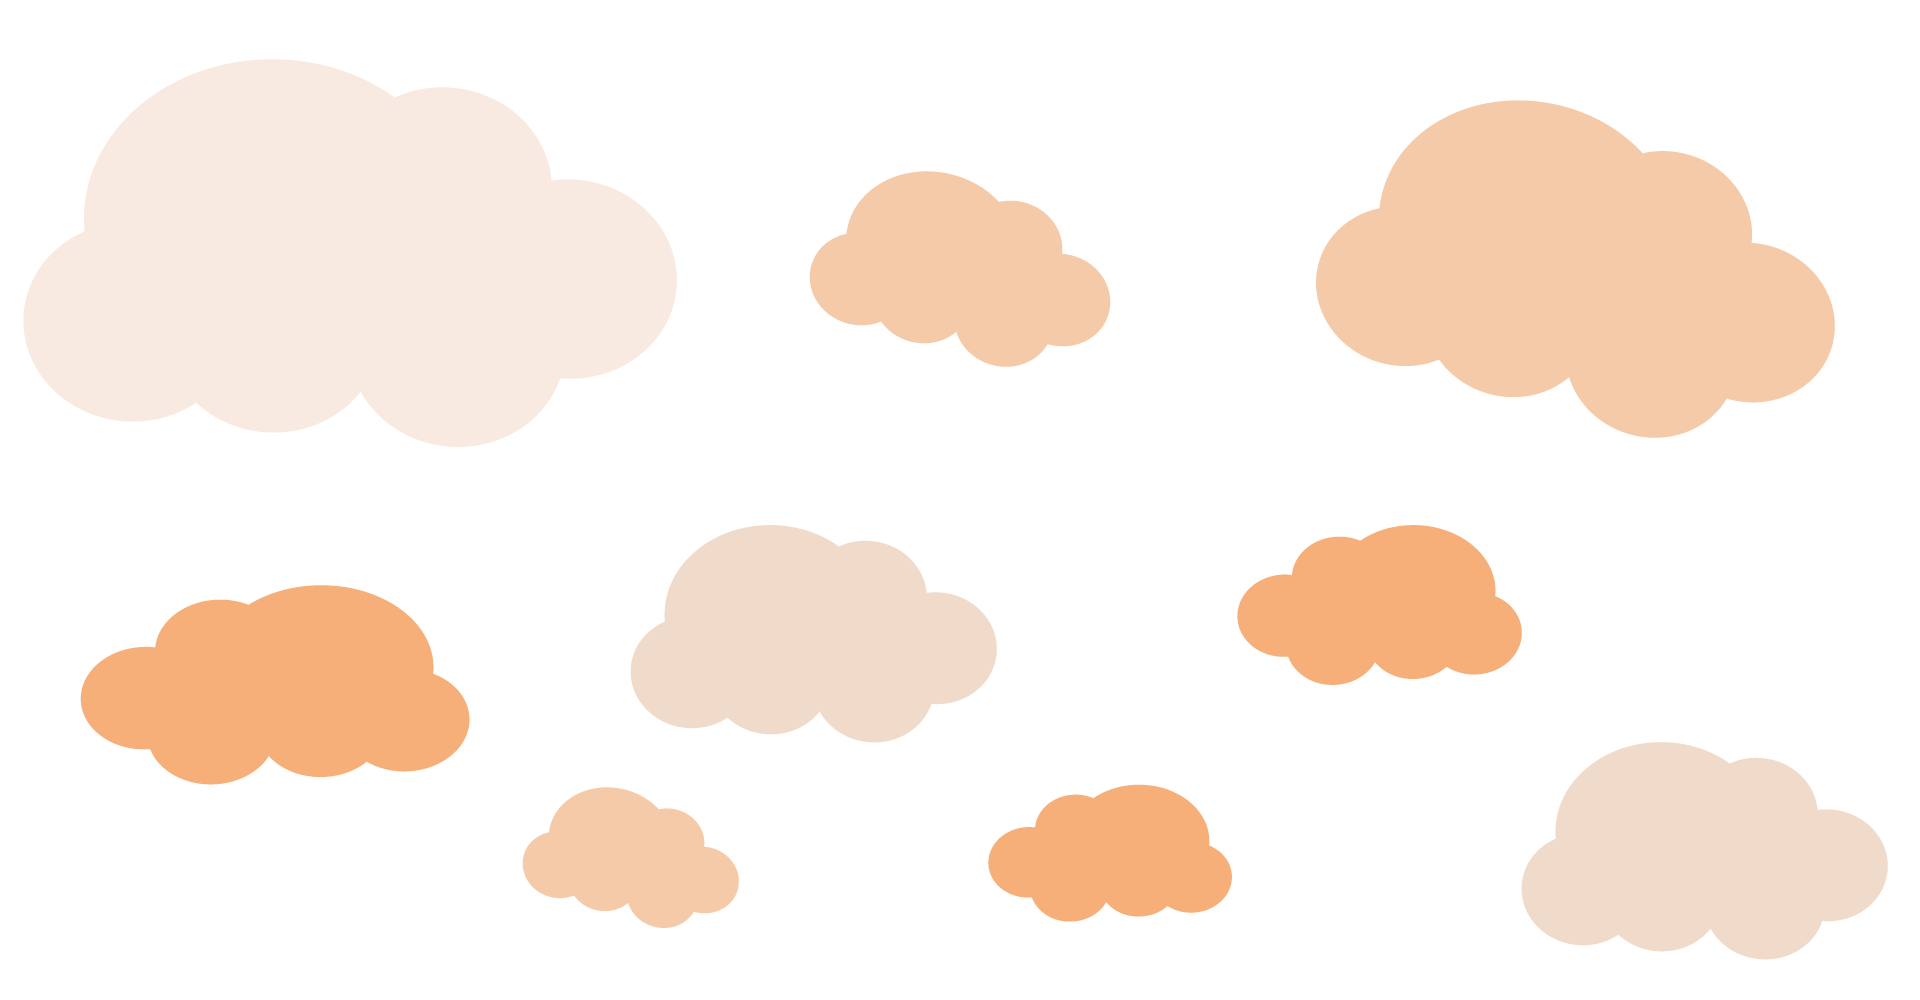
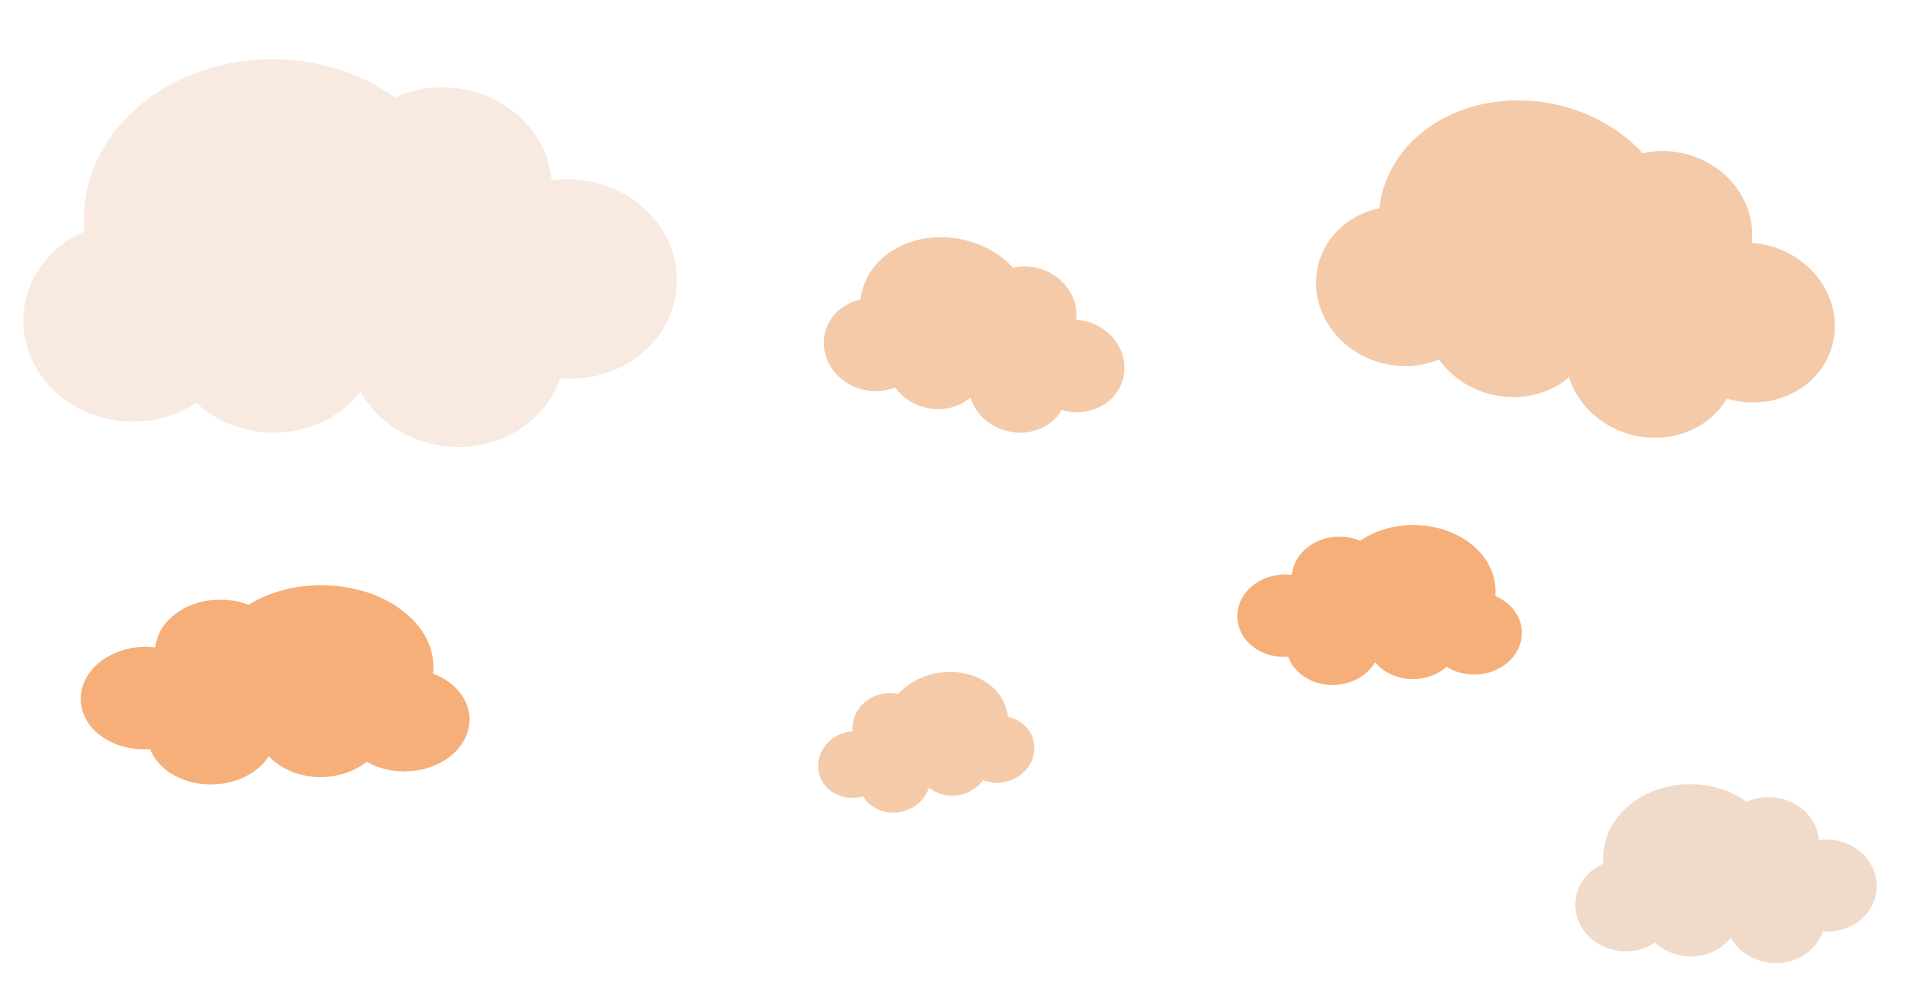
graphics less busy again

diff --git a/styles.css b/styles.css
@@ -26,7 +26,7 @@ body {
     background-size: 120px 138.5px;
   }
   .layer-1 {
-    top: -450px;
+    top: -400px;
     z-index: 5;
     background-image: url("layer1.png");
     background-size: 400px 208px;
